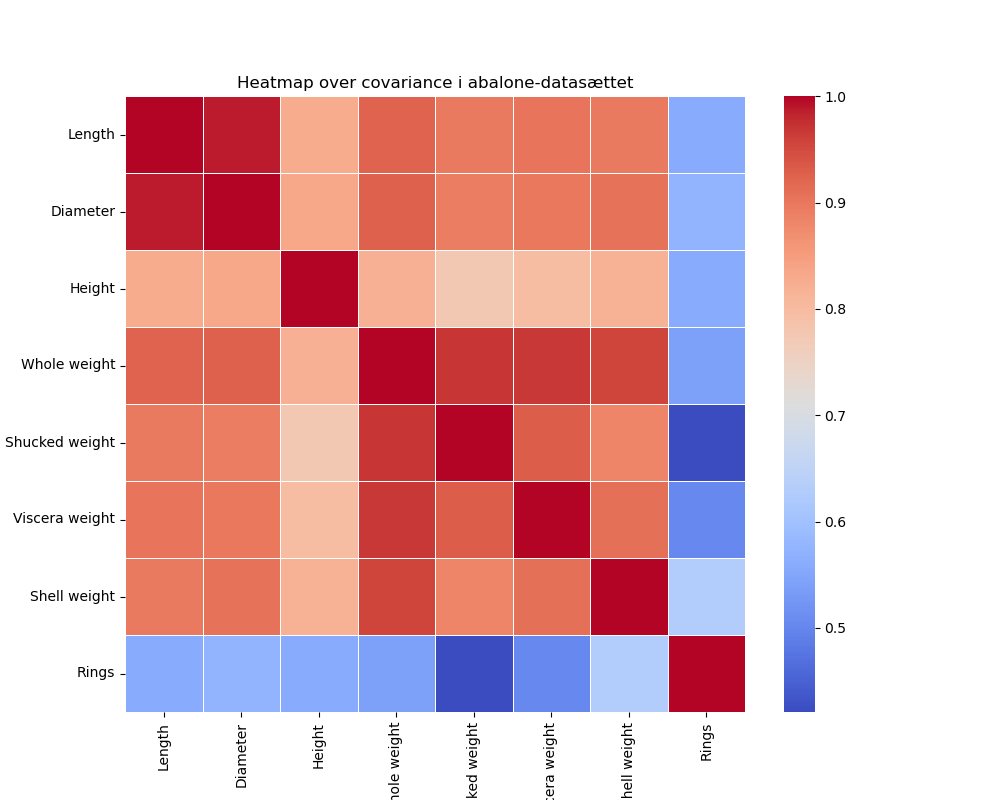
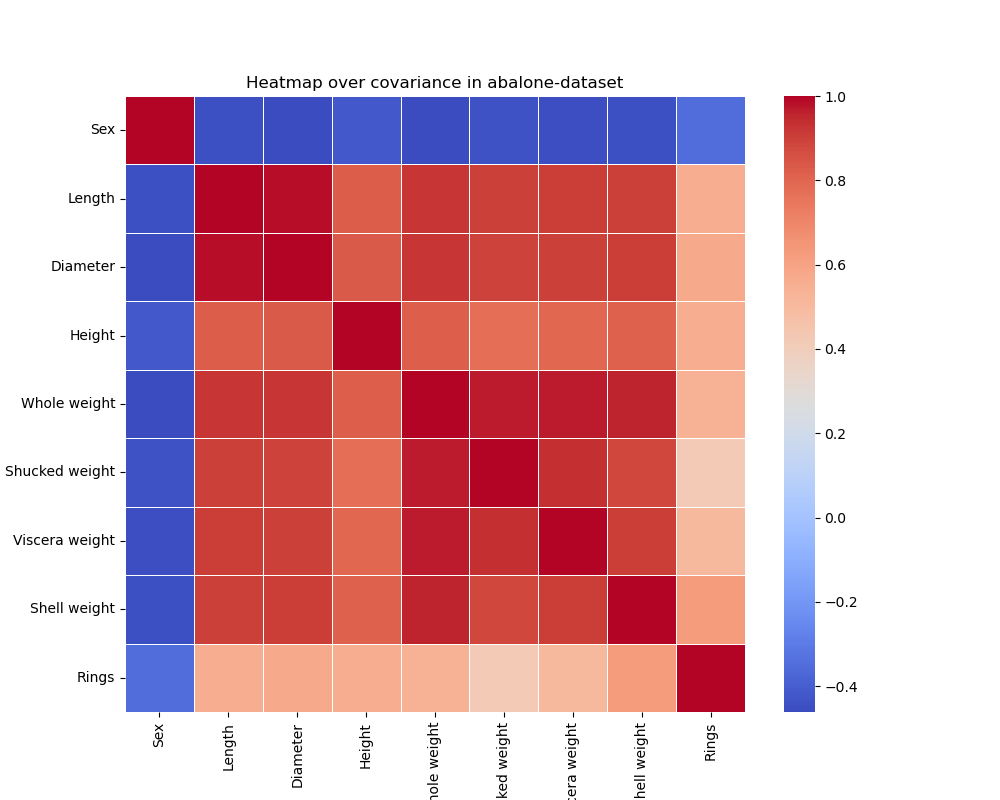
ændringer og ny kode

diff --git a/AbaloneData.py b/AbaloneData.py
@@ -7,53 +7,77 @@ comparison = pd.DataFrame({
     "Infant": infantinfo.mean()
 })
 
+# Standardize the datasets
+mean = np.mean(D, axis=0)
+std = np.std(D, axis=0)
+D_standardized = (D - mean) / std
+
+mean_male = np.mean(D_male, axis=0)
+std_male = np.std(D_male, axis=0)
+D_male_standardized = (D_male - mean_male) / std_male
+
+mean_female = np.mean(D_female, axis=0)
+std_female = np.std(D_female, axis=0)
+D_female_standardized = (D_female - mean_female) / std_female
+
+mean_infant = np.mean(D_infant, axis=0)
+std_infant = np.std(D_infant, axis=0)
+D_infant_standardized = (D_infant - mean_infant) / std_infant
+
+# Calculate covariance matrices
+cov = np.cov(D_standardized, rowvar=False)
+cov_male = np.cov(D_male_standardized, rowvar=False)
+cov_female = np.cov(D_female_standardized, rowvar=False)
+cov_infant = np.cov(D_infant_standardized, rowvar=False)
+
+
 print("Comparison of mean values:\n", comparison)
 
 #male correlation
-correlation_matrix = D_male.drop(columns=['Sex']).corr()
+correlation_matrix = D_male_standardized.corr()
 
 # Print the correlation matrix
 print("Correlation matrix for male abalones:\n", correlation_matrix)
 
 #female correlation
-correlation_matrix = D_female.drop(columns=['Sex']).corr()
+correlation_matrix = D_female_standardized.corr()
 
 # Print the correlation matrix
 print("Correlation matrix for female abalones:\n", correlation_matrix)
 
 #infant correlation
-correlation_matrix = D_infant.drop(columns=['Sex']).corr()
+correlation_matrix = D_infant_standardized.corr()
 
 # Print the correlation matrix
 print("Correlation matrix for infant abalones:\n", correlation_matrix)
 
 # Total correlation
-correlation_matrix = D.drop(columns=["Sex"]).corr()
+correlation_matrix = D_standardized.corr()
 
 # Print the correlation matrix
 print("Correlation matrix for all abalones:\n", correlation_matrix)
 
 
 # Male covariance
-covariance_matrix_male = D_male.drop(columns=['Sex']).cov()
+covariance_matrix_male = D_male_standardized.cov()
 
 # Print the covariance matrix
 print("Covariance matrix for male abalones:\n", covariance_matrix_male)
 
 # Female covariance
-covariance_matrix_female = D_female.drop(columns=['Sex']).cov()
+covariance_matrix_female = D_female_standardized.cov()
 
 # Print the covariance matrix
 print("Covariance matrix for female abalones:\n", covariance_matrix_female)
 
 # Infant covariance
-covariance_matrix_infant = D_infant.drop(columns=['Sex']).cov()
+covariance_matrix_infant = D_infant_standardized.cov()
 
 # Print the covariance matrix
 print("Covariance matrix for infant abalones:\n", covariance_matrix_infant)
 
 # Total covariance
-covariance_matrix = D.drop(columns=["Sex"]).cov()
+covariance_matrix = D_standardized.cov()
 
 # Print the covariance matrix
 print("Covariance matrix for all abalones:\n", covariance_matrix)

diff --git a/FixedCovVar.py b/FixedCovVar.py
@@ -1,0 +1,63 @@
+import numpy as np
+import scipy.stats as stats
+import matplotlib.pyplot as plt
+from data import *
+import seaborn as sns
+import pandas as pd
+
+# Assuming D, D_male, D_female, D_infant are pandas DataFrames
+# Encode 'Sex' column
+D['Sex'] = D['Sex'].map({'M': 1, 'F': 2, 'I': 3})
+D_male['Sex'] = D_male['Sex'].map({'M': 1, 'F': 2, 'I': 3})
+D_female['Sex'] = D_female['Sex'].map({'M': 1, 'F': 2, 'I': 3})
+D_infant['Sex'] = D_infant['Sex'].map({'M': 1, 'F': 2, 'I': 3})
+
+# Standardize the datasets
+mean = np.mean(D, axis=0)
+std = np.std(D, axis=0)
+D_standardized = (D - mean) / std
+
+mean_male = np.mean(D_male, axis=0)
+std_male = np.std(D_male, axis=0)
+D_male_standardized = (D_male - mean_male) / std_male
+
+mean_female = np.mean(D_female, axis=0)
+std_female = np.std(D_female, axis=0)
+D_female_standardized = (D_female - mean_female) / std_female
+
+mean_infant = np.mean(D_infant, axis=0)
+std_infant = np.std(D_infant, axis=0)
+D_infant_standardized = (D_infant - mean_infant) / std_infant
+
+# Calculate covariance matrices
+cov = np.cov(D_standardized, rowvar=False)
+cov_male = np.cov(D_male_standardized, rowvar=False)
+cov_female = np.cov(D_female_standardized, rowvar=False)
+cov_infant = np.cov(D_infant_standardized, rowvar=False)
+
+variable_names = D.columns
+
+# Plot heatmap for the entire dataset
+plt.figure(figsize=(10, 8))
+sns.heatmap(cov, annot=False, cmap='coolwarm', linewidths=0.5, xticklabels=variable_names, yticklabels=variable_names)
+plt.title("Heatmap over covariance in abalone-dataset")
+plt.savefig('heatmapcovall.png')
+plt.show()
+
+# Plot heatmap for D_male
+plt.figure(figsize=(10, 8))
+sns.heatmap(cov_male, annot=False, cmap='coolwarm', linewidths=0.5, xticklabels=variable_names, yticklabels=variable_names)
+plt.title("Heatmap over covariance in abalone-dataset (Male)")
+plt.show()
+
+# Plot heatmap for D_female
+plt.figure(figsize=(10, 8))
+sns.heatmap(cov_female, annot=False, cmap='coolwarm', linewidths=0.5, xticklabels=variable_names, yticklabels=variable_names)
+plt.title("Heatmap over covariance in abalone-dataset (Female)")
+plt.show()
+
+# Plot heatmap for D_infant
+plt.figure(figsize=(10, 8))
+sns.heatmap(cov_infant, annot=False, cmap='coolwarm', linewidths=0.5, xticklabels=variable_names, yticklabels=variable_names)
+plt.title("Heatmap over covariance in abalone-dataset (Infant)")
+plt.show()

diff --git a/pca-new.py b/pca-new.py
@@ -1,4 +1,4 @@
-    from data import *
+from data import *
 from sklearn.preprocessing import StandardScaler
 
 D_np = D_clean.to_numpy() # convert to numpy arrays
@@ -36,6 +36,7 @@ plt.xlabel('Principal components')
 plt.legend(["Individual", "Cumulative", "Threshold"])
 plt.tight_layout()
 plt.grid()
+plt.savefig('variance_explained.png')
 plt.show()
 
 # Plot classifications
@@ -53,4 +54,5 @@ plt.ylabel('Principal Component 2')
 plt.title('PCA of Abalone dataset')
 plt.colorbar(scatter, label='Number of Rings')
 plt.grid()
+plt.savefig('pca-graph.png')
 plt.show()

diff --git a/data.py b/data.py
@@ -30,7 +30,10 @@ datainfo = D.describe()
 # Convert datainfo to LaTeX format
 datainfo_latex = datainfo.to_latex()
 
-
+D['Sex'] = D['Sex'].map({'M': 1, 'F': 2, 'I': 3})
+D_male['Sex'] = D_male['Sex'].map({'M': 1, 'F': 2, 'I': 3})
+D_female['Sex'] = D_female['Sex'].map({'M': 1, 'F': 2, 'I': 3})
+D_infant['Sex'] = D_infant['Sex'].map({'M': 1, 'F': 2, 'I': 3})
 
 parameters = D.columns[1:]
 C = len(D.columns) - 1 # amount of attributes (8)

diff --git a/scatterplots.py b/scatterplots.py
@@ -1,0 +1,11 @@
+import matplotlib.pyplot as plt
+import statsmodels.api as sm
+from data import *
+
+# Scatter plot of Rings vs Shell weight
+plt.figure()
+plt.scatter(D['Rings'], D['Shell weight'])
+plt.title('Scatter plot of Rings vs Shell weight')
+plt.xlabel('Rings')
+plt.ylabel('Shell weight')
+plt.show()
